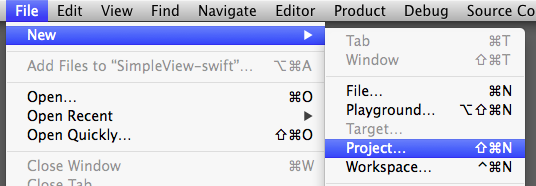
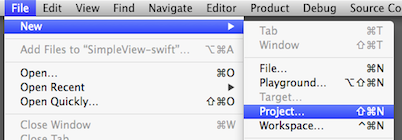
Fix links. Shrink image.

diff --git a/README.md b/README.md
@@ -29,7 +29,7 @@ The rest of the process is the same as for [creating any Xcode project](https://
 
 The CoronaCards project templates support both Objective-C and Swift. You can choose the preferred programming language via the `Language` pulldown that appears in the project options dialog:
 
-![Xcode-CoronaCards-Project-Template-Swift-ObjC](Xcode-CoronaCards-Project-Template-Swift-ObjC.png)
+![Xcode-CoronaCards-Project-Template-Swift-ObjC](README/Xcode-CoronaCards-Project-Template-Swift-ObjC.png)
 
 # Requirements
 
